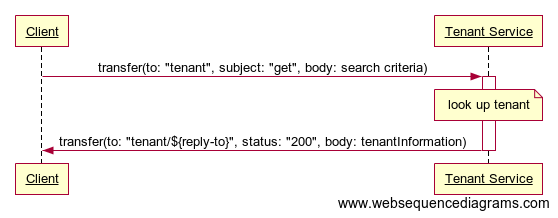
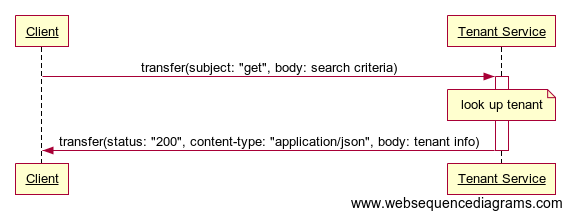
[#1269] Remove obsolete properties from response message.

diff --git a/site/content/api/Tenant-API.md b/site/content/api/Tenant-API.md
@@ -39,8 +39,8 @@ The following table provides an overview of the properties a client needs to set
 
 | Name             | Mandatory | Location                 | AMQP Type    | Description |
 | :--------------- | :-------: | :----------------------- | :----------- | :---------- |
-| *correlation-id* | no        | *properties*             | *message-id* | MAY contain an ID used to correlate a response message to the original request. If set, it is used as the *correlation-id* property in the response, otherwise the value of the *message-id* property is used. |
-| *message-id*     | yes       | *properties*             | *string*     | MUST contain an identifier that uniquely identifies the message at the sender side. |
+| *correlation-id* | no        | *properties*             | *message-id* | MAY contain an ID used to correlate a response message to the original request. If set, it is used as the *correlation-id* property in the response, otherwise the value of the *message-id* property is used. Either this or the *message-id* property MUST be set. |
+| *message-id*     | no        | *properties*             | *string*     | MAY contain an identifier that uniquely identifies the message at the sender side. Either this or the *correlation-id* property MUST be set. |
 | *reply-to*       | yes       | *properties*             | *string*     | MUST contain the source address that the client wants to receive response messages from. This address MUST be the same as the source address used for establishing the client's receive link (see [Preconditions]({{< relref "#preconditions" >}})). |
 | *subject*        | yes       | *properties*             | *string*     | MUST be set to `get`. |
 
@@ -76,8 +76,7 @@ The following table provides an overview of the properties contained in a respon
 | Name             | Mandatory | Location                 | AMQP Type    | Description |
 | :--------------- | :-------: | :----------------------- | :----------- | :---------- |
 | *correlation-id* | yes       | *properties*             | *message-id* | Contains the *message-id* (or the *correlation-id*, if specified) of the request message that this message is the response to. |
-| *content-type*   | yes       | *properties*             | *string*     | MUST be set to `application/json`. |
-| *tenant_id*      | yes       | *application-properties* | *string*     | Contains the ID of the tenant. |
+| *content-type*   | no        | *properties*             | *string*     | MUST be set to `application/json` if the invocation of the operation was successful and the body of the response message contains payload as described below. |
 | *status*         | yes       | *application-properties* | *int*        | Contains the status code indicating the outcome of the operation. Concrete values and their semantics are defined for each particular operation. |
 | *cache_control*  | no        | *application-properties* | *string*     | Contains an [RFC 2616](https://tools.ietf.org/html/rfc2616#section-14.9) compliant <em>cache directive</em>. The directive contained in the property MUST be obeyed by clients that are caching responses. |
 
@@ -85,11 +84,13 @@ The response message's *status* property may contain the following codes:
 
 | Code  | Description |
 | :---- | :---------- |
-| *200* | OK, the payload contains the tenant information for the requested tenant. |
+| *200* | OK, The response message body contains the requested tenant information. |
+| *400* | Bad Request, the request message did not contain all mandatory properties.
 | *403* | Forbidden, the client is not authorized to retrieve information for the given tenant. |
 | *404* | Not Found, there is no tenant matching the given search criteria. |
 
-For status codes indicating an error (codes in the `400 - 499` range) the message body MAY contain a detailed description of the error that occurred.
+For status codes indicating an error (codes in the `400 - 499` range) the message body MAY contain a detailed description of the error that occurred. In this case, the response message's *content-type* property SHOULD be set accordingly.
+
 Otherwise the response message contains the information for the requested tenant as described in the following sections.
 
 <a name="payload-format"></a>
@@ -210,5 +211,5 @@ A Tenant service implementation uses the following AMQP message delivery states 
 
 | Delivery State | Description |
 | :------------- | :---------- |
-| *ACCEPTED*     | Indicates that the request has been successfully received and accepted for processing. |
-| *REJECTED*     | Indicates that the request has been received but could not be processed. The *error* field contains information regarding the reason why. Clients should not try to re-send the request using the same message properties and payload in this case. |
+| *ACCEPTED*     | Indicates that the request message has been received and accepted for processing. |
+| *REJECTED*     | Indicates that the request message has been received but cannot be processed. The disposition frame's *error* field contains information regarding the reason why. Clients should not try to re-send the request using the same message properties and payload in this case. |

diff --git a/site/content/release-notes.md b/site/content/release-notes.md
@@ -16,6 +16,11 @@ title = "Release Notes"
 
 ### API Changes
 
+* The optional methods of the [Tenant API]({{< ref "/api/Tenant-API.md" >}}) have been removed.
+  Implementations of the Tenant API are encouraged to expose the *tenant* endpoint defined by
+  [Hono's HTTP based management API](https://eclipse.org/hono/api/device-registry-v1.yaml) instead.
+  Several of the formerly mandatory to include properties of the request and response messages have
+  been made optional or removed altogether. Existing clients should not be affected by these changes, though.
 * The response message format of the *assert Device Registration* operation of the Device Registration API
   has been changed, replacing the optional `gw-supported` boolean field with an optional `via` field.
   The value of this field contains the list of gateway that may act on behalf of the device on which
@@ -38,8 +43,7 @@ title = "Release Notes"
   [Device Registry Admin Guide]({{< ref "/admin-guide/device-registry-config.md" >}}) for details
   regarding the configuration properties to use.
 * There is now an official specification of an HTTP API for managing the content of a device registry.
-  The API is defined using by means of OpenAPI v3 and is available at
-  https://eclipse.org/hono/api/device-registry-v1.yaml.
+  The [HTTP Management API](https://eclipse.org/hono/api/device-registry-v1.yaml) is defined using by means of OpenAPI v3.
   Note, that the API is not yet implemented by the example device registry that comes with Hono.
 * The Command & Control feature now supports gateway agnostic addressing of devices. This means that applications are
   able to send commands to devices without knowing the particular gateway they may be connected to.
